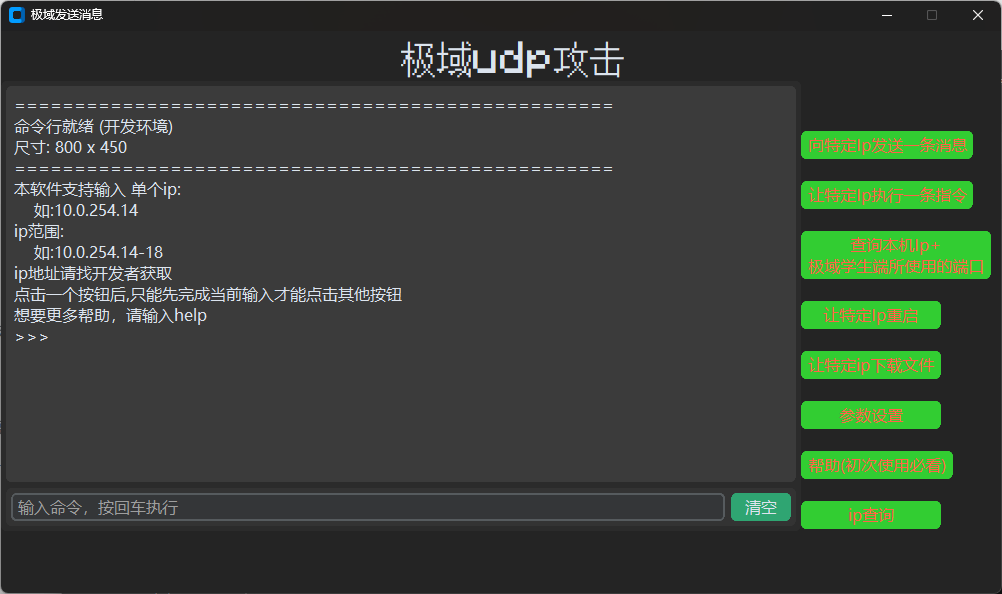
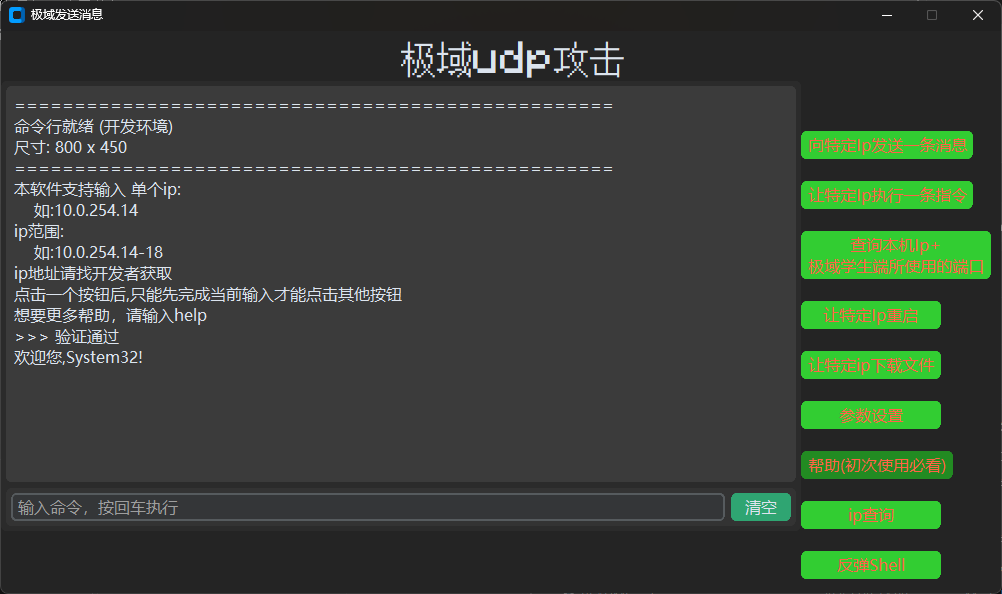
v1.2.2更新

diff --git a/main_window.py b/main_window.py
@@ -38,7 +38,12 @@ def get_app_dir():
 task_running = False
 task_lock = threading.Lock()
 
-short_password = '47528fde188a75581be3a3242354512f' #短期密码
+#用户权限
+User = 3 #用户权限等级,范围0-3,数字越小权限越大
+
[3 lines of base64/hex data omitted]
 
 have_error = False
 
@@ -60,6 +65,22 @@ except Exception as e:
 # 需要禁用的按钮列表（在创建按钮后添加）
 action_buttons = []
 
+#对于特定用户的权限管理
+def disabled_buttons():
+    global User
+    if User == 3:#无密码用户
+        command_btn.configure(state="disabled")
+        reboot_btn.configure(state="disabled")
+        download_btn.configure(state="disabled")
+        Shell_btn.configure(state="disabled")
+    elif User == 2:#学生密码
+        reboot_btn.configure(state="disabled")
+        Shell_btn.configure(state="disabled")
+    elif User == 1:#短期密码
+        Shell_btn.configure(state="disabled")
+    elif User == 0:#长期密码
+        User = User#只是没东西可写罢了
+
 def disable_buttons():
     """禁用所有操作按钮"""
     for btn in action_buttons:
@@ -71,6 +92,7 @@ def enable_buttons():
     for btn in action_buttons:
         btn.configure(state="normal")
     task_running = False
+    disabled_buttons()
 
 def start_task(task_func):
     """启动任务，如果已有任务则提示"""
@@ -254,16 +276,7 @@ def send_command():
     def task():
         Jiyu.args.c = None #先清除command属性，防止误发送
         Jiyu.args.msg = None #先清除msg属性，防止误发送
-        password = input("此为开发者专用功能,请输入密码:")
-        password = password.encode()#字符化字符串(用于加密为hash md5)
-        password = Hash.md5(password).hexdigest()
-        truly_password = 'b094e7bd28ee3b802f1abb86e6e4d688' #长期密码
-        if truly_password == password or short_password == password:
-            app.cli._clear_output()#清空输入
-            app.cli._clear_output()#清空输入
-            app.cli._clear_output()#清空输入
-            app.cli._clear_output()#清空输入
-            app.cli._clear_output()#清空输入
+        if True:
             Jiyu.args.c = None #先清除command属性，防止误发送
             Jiyu.args.msg = None #先清除msg属性，防止误发送
             if len(latest_command["c"]) != 0:
@@ -369,16 +382,7 @@ def reboot():
     def task():
         Jiyu.args.c = None #先清除command属性，防止误发送
         Jiyu.args.msg = None #先清除msg属性，防止误发送
-        password = input("此为开发者专用功能,请输入密码:")
-        password = password.encode()#字符化字符串(用于加密为hash md5)
-        password = Hash.md5(password).hexdigest()
-        truly_password = 'b094e7bd28ee3b802f1abb86e6e4d688'
-        if truly_password == password or short_password == password:
-            app.cli._clear_output()#清空输入
-            app.cli._clear_output()#清空输入
-            app.cli._clear_output()#清空输入
-            app.cli._clear_output()#清空输入
-            app.cli._clear_output()#清空输入
+        if True:
             if len(latest_command["ip"]) != 0:
                 print("发现上次的命令!是否需要填充?(填充请输入T)")
                 answer = input()
@@ -452,17 +456,12 @@ def file_download():
     def task():
         Jiyu.args.c = None #先清除command属性，防止误发送
         Jiyu.args.msg = None #先清除msg属性，防止误发送
-        password = input("此为开发者专用功能,请输入密码:")
-        password = password.encode()#字符化字符串(用于加密为hash md5)
-        password = Hash.md5(password).hexdigest()
-        truly_password = 'b094e7bd28ee3b802f1abb86e6e4d688'
-        if truly_password == password or short_password == password:
-            app.cli._clear_output()#清空输入
-            app.cli._clear_output()#清空输入
-            app.cli._clear_output()#清空输入
-            app.cli._clear_output()#清空输入
-            app.cli._clear_output()#清空输入
+        if True:
             print("注意:该功能现有一个无法解决的bug:文件下载功能可能会失效")
+            print("原因:命令长度过长,无法执行")
+            print("因此,请尽量保持您的文件名简短")
+            print("如:使用短链接/将文件保存在本地使用本地服务器分发")
+            print("缩短保存路径:比如将C:\\Users\\System32\\更改为C:\\")
             if len(latest_command["url"]) != 0:
                 print("发现上次的命令!是否需要填充?(填充请输入T)")
                 answer = input()
@@ -688,11 +687,7 @@ def GET_Shell():
     def task():
         Jiyu.args.c = None
         Jiyu.args.msg = None
-        password = input("此为开发者专用功能,请输入密码:")
-        password = password.encode()
-        password = Hash.md5(password).hexdigest()
-        truly_password = 'b094e7bd28ee3b802f1abb86e6e4d688'
-        if truly_password == password:
+        if True:
             app.cli._clear_output()
             for _ in range(5):
                 app.cli._clear_output()
@@ -735,6 +730,39 @@ def GET_Shell():
             time.sleep(0.05)
             app.cli._append_output(">>> ")
     start_task(task)
+
+def Password():
+    def task():
+        while True:
+            password = input("此为开发者专用功能,请输入密码(要使用无密码模式,请输入:N):")
+            password = password.encode()#字符化字符串(用于加密为hash md5)
+            password = Hash.sha512(password).hexdigest()
+            if truly_password == password:
+                global User
+                app.cli._clear_output()
+                User = 0
+                print("验证通过\n欢迎您,System32!")
+                break
+            elif short_password == password:
+                app.cli._clear_output()
+                User = 1
+                print("验证通过\n欢迎您,Administrator!")
+                break
+            elif student_password == password:
+                app.cli._clear_output()
+                User = 2
+                print("验证通过\n欢迎您,User!")
+                break
[1 lines of base64/hex data omitted]
+                app.cli._clear_output()
+                User = 3
+                print("验证通过\n欢迎您,Guset!")
+                break
+            else:
+                print("密码错误!")
+                time.sleep(0.05)
+    start_task(task)
+    disabled_buttons()
 
 
 #窗口设置
@@ -795,6 +823,8 @@ app.cli.place(x=0, y=50)
 if have_error:
     print("错误!未找到ip_address.txt文件!请确保ip_address.txt和本程序在同一个目录下!")
     print(">>> ")
+
+Password()
 
 #启动窗口
 app.mainloop()
